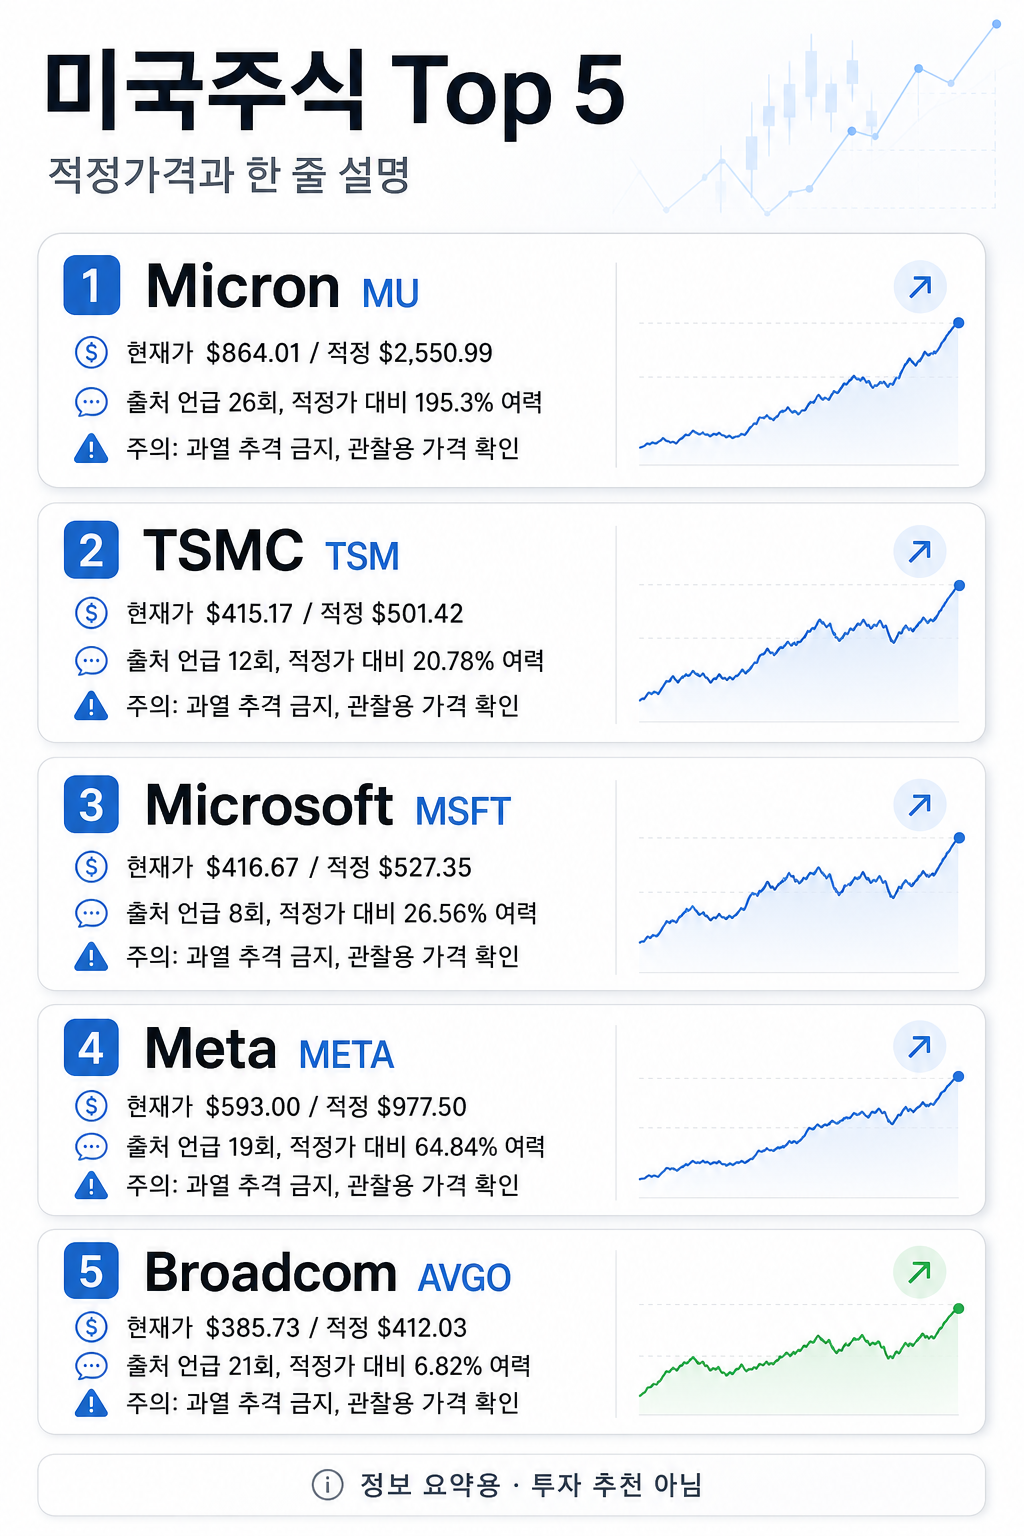
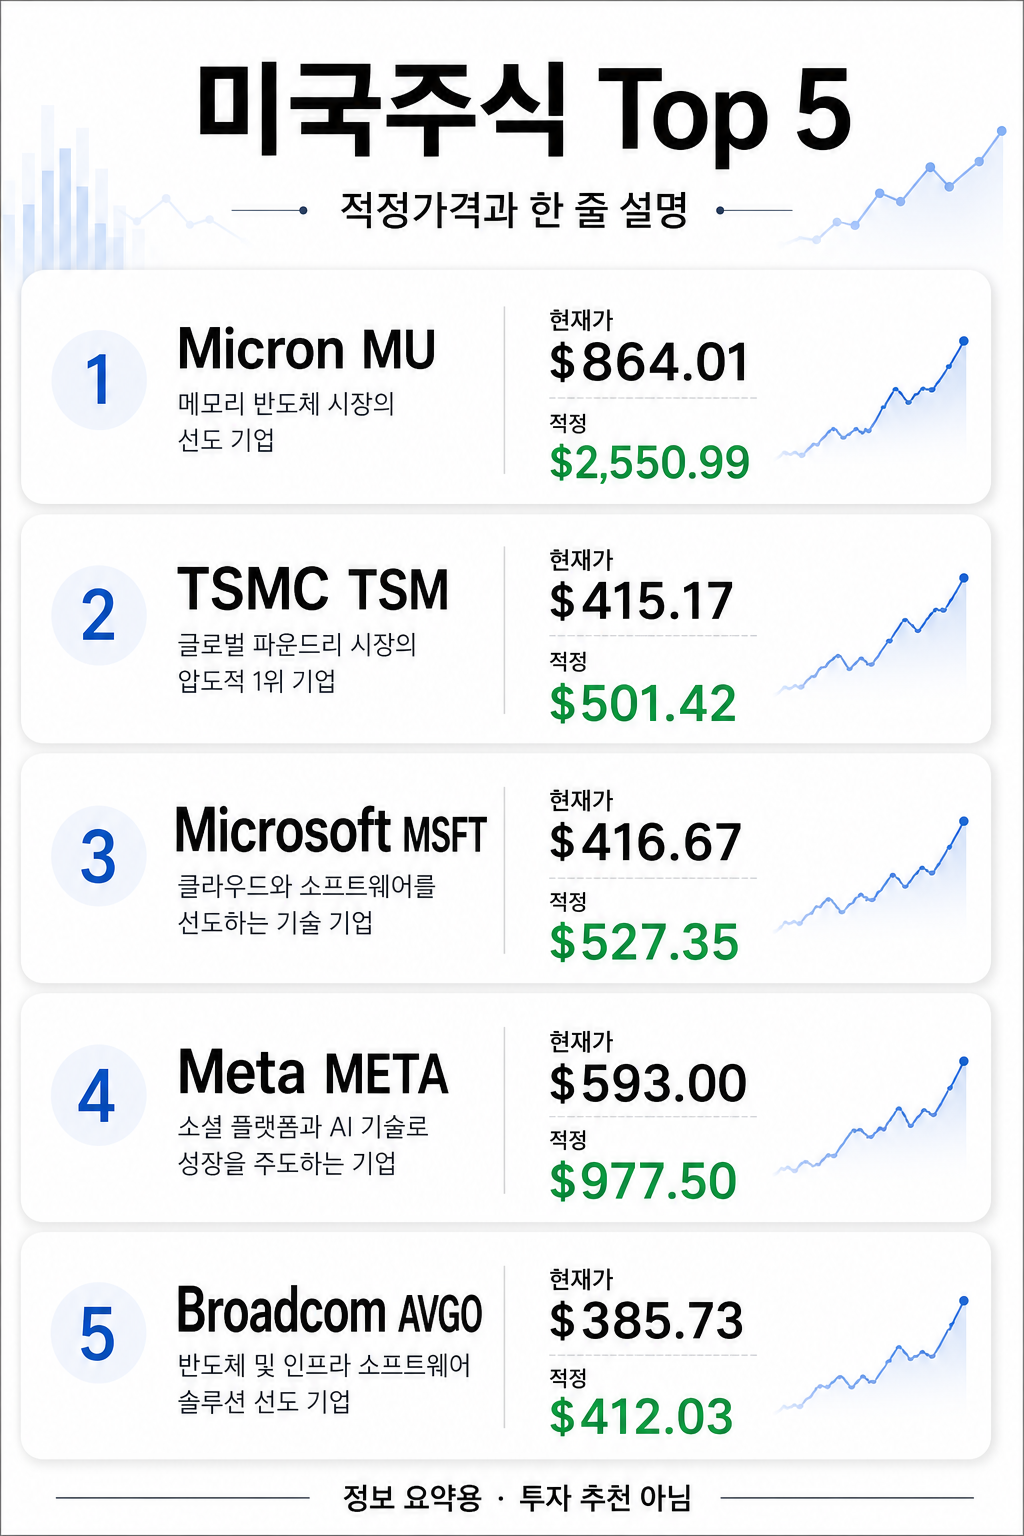
chore: publish hourly stock dashboard

diff --git a/public/index.html b/public/index.html
@@ -34,7 +34,7 @@ html{scroll-behavior:smooth;overflow-x: hidden} body{overflow-x: hidden;font-fam
 @media (max-width:760px){header{padding-top:30px} .top-rec-section,.news-section,.method-section{padding:16px!important;border-radius:18px!important} .ai-rec-grid,.valuation-grid,.youtuber-grid,.stock-rank-grid{grid-template-columns:1fr!important} .news-column h3{position:static} .ai-price-grid{grid-template-columns:1fr}}
 </style></head>
 <body>
-<header><h1>한국·미국 주식 한눈에 보기</h1><div class="subtitle">매시간 국내주식과 미국주식의 관심 종목, 출처 발언, 재무·차트 숫자, 최신 뉴스를 새로 정리합니다. / 생성: 2026-06-07 01:31</div><div class="kpis"><div class="kpi">수집 소스 23개</div><div class="kpi">소스 로그 1086개</div><div class="kpi">추천/관심 종목 48개</div><div class="kpi">유튜브 자막 181/314개</div><div class="kpi">화면 OCR 139개</div><div class="kpi">뉴스 756건</div></div></header>
+<header><h1>한국·미국 주식 한눈에 보기</h1><div class="subtitle">매시간 국내주식과 미국주식의 관심 종목, 출처 발언, 재무·차트 숫자, 최신 뉴스를 새로 정리합니다. / 생성: 2026-06-07 02:31</div><div class="kpis"><div class="kpi">수집 소스 23개</div><div class="kpi">소스 로그 1090개</div><div class="kpi">추천/관심 종목 48개</div><div class="kpi">유튜브 자막 181/314개</div><div class="kpi">화면 OCR 139개</div><div class="kpi">뉴스 760건</div></div></header>
 <nav class="tabs"><a href="#top-recommendations">추천종목</a><a href="#news">뉴스</a><a href="#macro-context">큰틀 참고</a><a href="#method">자료 확인</a><a href="#domestic">국내</a><a href="#global">미국</a></nav>
 <main><div class="notice">이 페이지는 여러 출처에서 나온 말과 공개 재무 데이터를 모아 보여주는 참고용 화면입니다. 점수와 가격대는 자동 계산한 기준선일 뿐, 투자 조언이나 수익 보장이 아닙니다. 실제 매매 전에는 현재가, 공시, 실적, 수급을 다시 확인해 주세요.</div><section id="top-recommendations" class="top-rec-section"><div class="top-rec-head"><span>먼저 볼 것</span><h2>AI 추천종목 Top5</h2><p>국내와 미국을 나눠서 보여줍니다. 많이 언급된 종목, 재무 숫자, 차트 위치를 함께 본 관심 목록입니다. 매수 지시는 아닙니다.</p></div><section class="imagegen2-section" aria-label="이미지젠2 종목 설명 카드뉴스">
       <div class="imagegen2-head"><span>ImageGen2 카드뉴스</span><h2>그림으로 먼저 보는 국내·미국 Top5</h2><p>종목 설명을 한 장씩 빠르게 훑어보는 카드뉴스입니다. 세부 수치와 원문 근거는 아래 추천 카드에서 다시 확인해 주세요.</p></div>
@@ -259,7 +259,7 @@ html{scroll-behavior:smooth;overflow-x: hidden} body{overflow-x: hidden;font-fam
               <div class="news-original">원문: Meta Stock Is Lagging Big Tech Peers. Here&#x27;s What Could Return Its &#x27;AI Winner&#x27; View. - Investor&#x27;s Business Daily</div>
               <p>메타 주식은 거대 기술 동료들보다 뒤처져 있습니다. &#x27;AI 승자&#x27; 관점을 반환할 수 있는 것은 다음과 같습니다.    투자자 비즈니스 데일리</p>
               <div class="badges news-tickers"><span class="badge ticker">META</span></div>
-            </article></div></div><details class="news-md-card"><summary>Markdown 뉴스 인제스트 보기</summary><pre># 주식 뉴스 인제스트 (2026-06-07T01:05)
+            </article></div></div><details class="news-md-card"><summary>Markdown 뉴스 인제스트 보기</summary><pre># 주식 뉴스 인제스트 (2026-06-07T02:04)
 
 이 파일은 1시간 자동 갱신이 읽기 쉽게 최신 RSS/Google News 헤드라인을 한국어 중심 Markdown으로 정리한 자료입니다.
 투자 조언이 아니라 뉴스/촉매/리스크 확인용 출처 목록입니다.

diff --git a/data/imagegen2/cardnews_source.md b/data/imagegen2/cardnews_source.md
@@ -1,6 +1,6 @@
 # ImageGen2 stock cardnews source
 
-Generated: 2026-06-07T01:26
+Generated: 2026-06-07T02:26
 
 ## 한국주식
 1. 현대차 005380 — 현재가 700,000원, 적정 1,179,025원

diff --git a/data/news_ingest/latest_news.md b/data/news_ingest/latest_news.md
@@ -1,4 +1,4 @@
-# 주식 뉴스 인제스트 (2026-06-07T01:05)
+# 주식 뉴스 인제스트 (2026-06-07T02:04)
 
 이 파일은 1시간 크론이 읽기 쉽게 최신 RSS/Google News 헤드라인을 한국어 중심 Markdown으로 정규화한 자료입니다.
 투자 조언이 아니라 뉴스/촉매/리스크 확인용 출처 목록입니다.